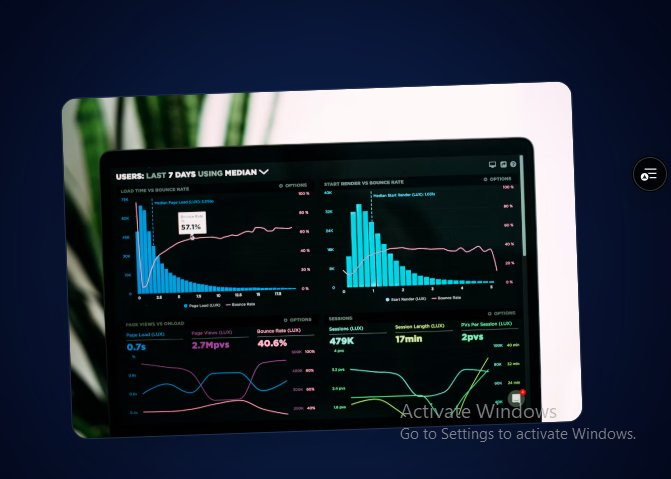
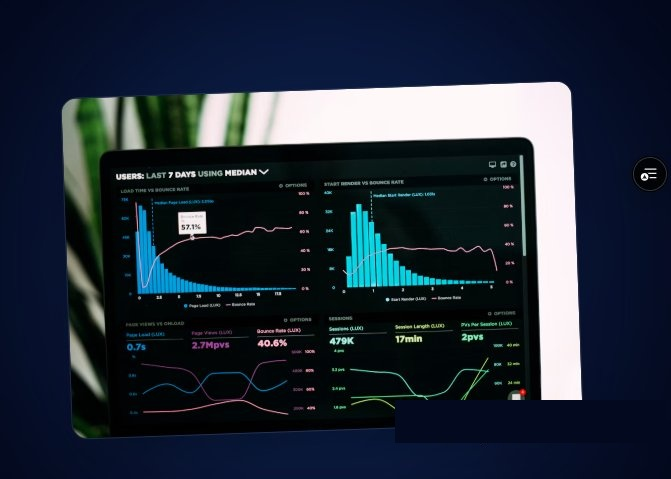
Remove bottom overlay badge from landing page image

Changed region(s): [[0.5663, 0.8184, 0.9538, 0.9353]]

diff --git a/frontend/src/pages/Landing.jsx b/frontend/src/pages/Landing.jsx
@@ -48,21 +48,12 @@ const Landing = () => {
           
           <div className="relative z-10 flex items-center justify-center">
             <div className="absolute inset-0 bg-blue-600/10 blur-[120px] rounded-full"></div>
-            <div className="relative z-20 w-full max-w-lg rounded-2xl overflow-hidden shadow-2xl border border-slate-800 bg-slate-900/40 backdrop-blur-md group hover:border-slate-700 transition-all duration-300">
+            <div className="relative z-20 w-full max-w-lg rounded-2xl overflow-hidden shadow-2xl border border-slate-800/80 bg-slate-900/40 backdrop-blur-md group hover:border-slate-700 transition-all duration-300">
               <img 
                 src={dashboardPreviewImg} 
                 alt="Credify Credit Intelligence Dashboard Preview" 
                 className="w-full h-auto object-cover rounded-2xl shadow-2xl transform group-hover:scale-[1.01] transition-transform duration-300"
               />
-              <div className="absolute bottom-3 left-3 right-3 p-3 bg-slate-950/85 backdrop-blur-md border border-slate-800/80 rounded-xl flex items-center justify-between">
-                <div>
-                  <p className="text-xs font-semibold text-white">Live Credit Intelligence Dashboard</p>
-                  <p className="text-[11px] text-slate-400">Underwriting queue & automated risk metrics</p>
-                </div>
-                <span className="text-[11px] font-semibold text-green-400 bg-green-950/60 border border-green-800/60 px-2.5 py-0.5 rounded-full">
-                  Operational
-                </span>
-              </div>
             </div>
           </div>
         </div>
